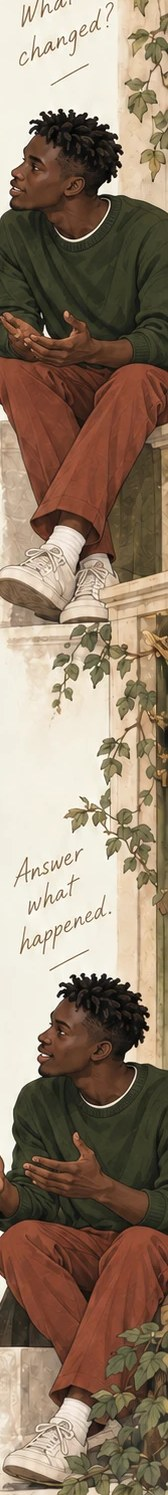
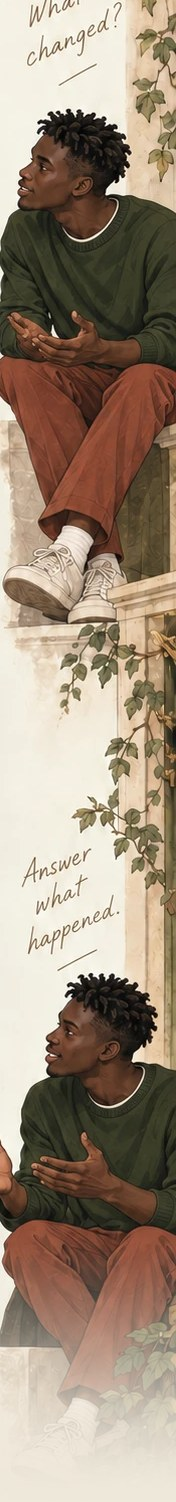
learn: paint the last two module bands, and fade every strip into the paper
Where Behavior Comes From and Preparing the Performance had no artwork
and rendered as plain bands; Tempo-Rhythm had an earlier draft. All
three arrive here, cut to margin strips by the same rule as the first
batch — the owner's mockups carry the cards and the node rail painted
into the middle, so the channel comes out and the real page background
shows between the margins.

Module 5's own mockup badges its lessons DECIDE, PERFORM, PARTNER and
DRILL — the seven kinds this app already had, not the format badges the
first three mockups drew. The page now agrees with itself end to end.

EVERY STRIP NOW DISSOLVES INTO --bg over its last fifth. Width is fixed
and height is natural, so a band taller than its painting simply runs
out of picture — which left a hard horizontal cut across the margin
wherever a module had more lessons than the art was drawn for, and a
straight edge in the middle of an illustration reads as a bug rather
than a choice. Baked into the JPEG rather than masked in CSS: a
background layer cannot carry its own mask without moving the art into
an element, and the fade colour is a constant the page already owns.

Module 2's blurb takes the mockup's wording. Its eighth card is still
The Physical Score, still gated, rendering with a dashed node, no badge
and no chevron — verified, not assumed.

Ten strips, 710KB. img/ui ships 2.8MB.

diff --git a/js/data/learn-scenes.js b/js/data/learn-scenes.js
@@ -121,13 +121,15 @@ export const LEARN_SCENES = {
     // page background showing between the strips, which is what the
     // mockups show anyway and costs 452KB rather than three full plates.
     //
-    // `work` (module 2) and `performance` (module 5) have no artwork yet.
-    // A module with no entry renders as a plain band — never a broken
-    // image, the same rule figures follow.
+    // All five modules are painted (owner artwork completed 2026-10-22).
+    // A module with no entry would render as a plain band — never a broken
+    // image, the same rule figures follow — but none is missing now.
     moduleArt: {
-      text:      { l: 'img/ui/acting-mod-text-l.jpg',      r: 'img/ui/acting-mod-text-r.jpg' },
-      listening: { l: 'img/ui/acting-mod-listening-l.jpg', r: 'img/ui/acting-mod-listening-r.jpg' },
-      rhythm:    { l: 'img/ui/acting-mod-rhythm-l.jpg',    r: 'img/ui/acting-mod-rhythm-r.jpg' },
+      text:        { l: 'img/ui/acting-mod-text-l.jpg',        r: 'img/ui/acting-mod-text-r.jpg' },
+      work:        { l: 'img/ui/acting-mod-work-l.jpg',        r: 'img/ui/acting-mod-work-r.jpg' },
+      listening:   { l: 'img/ui/acting-mod-listening-l.jpg',   r: 'img/ui/acting-mod-listening-r.jpg' },
+      rhythm:      { l: 'img/ui/acting-mod-rhythm-l.jpg',      r: 'img/ui/acting-mod-rhythm-r.jpg' },
+      performance: { l: 'img/ui/acting-mod-performance-l.jpg', r: 'img/ui/acting-mod-performance-r.jpg' },
     },
     done: 'cultivated',
     above: 'WHAT THE AUDIENCE SEES',

diff --git a/js/data/acting/acting-course.js b/js/data/acting/acting-course.js
@@ -81,7 +81,7 @@ export const ACTING_MODULES = [
     // card could not see was coming. The blurb used to open "then where
     // behavior comes from", which is now the title directly above it, so
     // it was reworded to stop the card saying the same thing twice.
-    blurb: 'Securing the text first, then the five things it comes from: circumstances, objective, obstacle, stakes, urgency.' },
+    blurb: 'Behavior grows from circumstance, pursuit and resistance — not a decision about mood.' },
   { n: 3, id: 'listening', title: 'Listening and Responding',
     blurb: 'Receive the other person before deciding how to answer.' },
   // Tempo-Rhythm was inserted here (owner order, 2026-08-26); Building a
